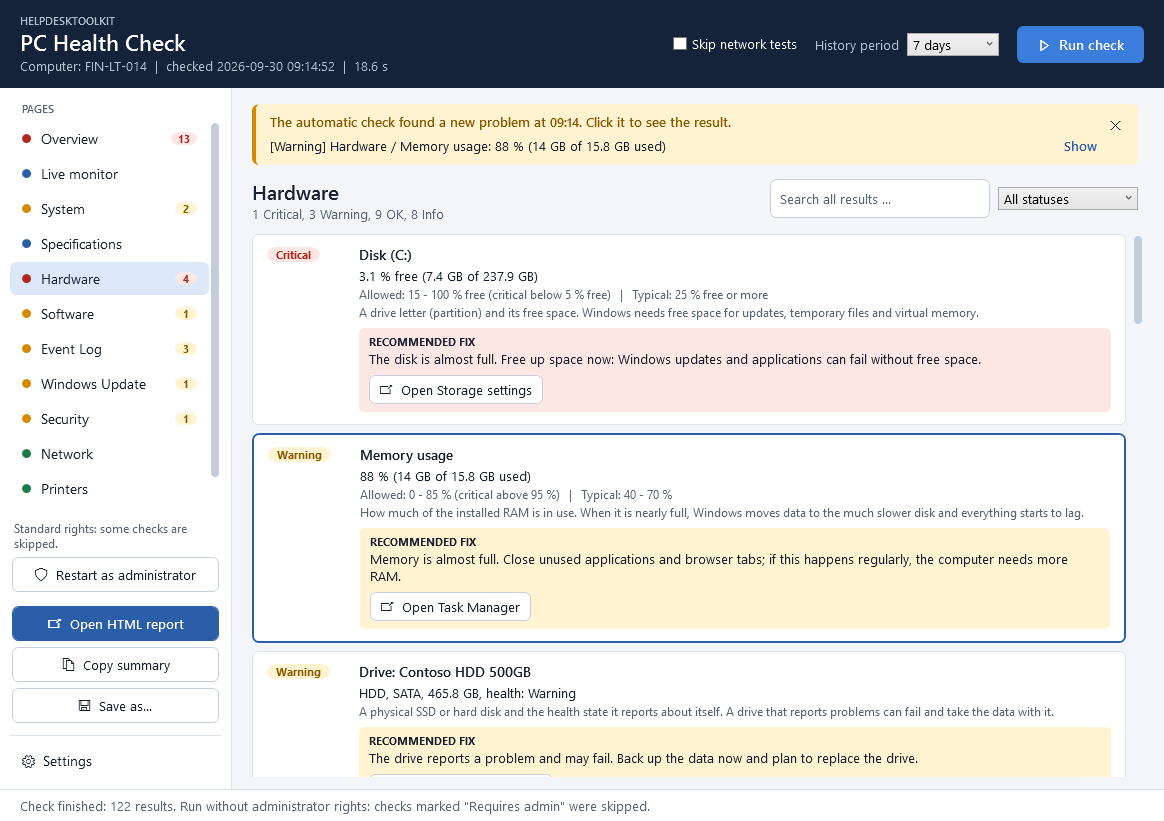
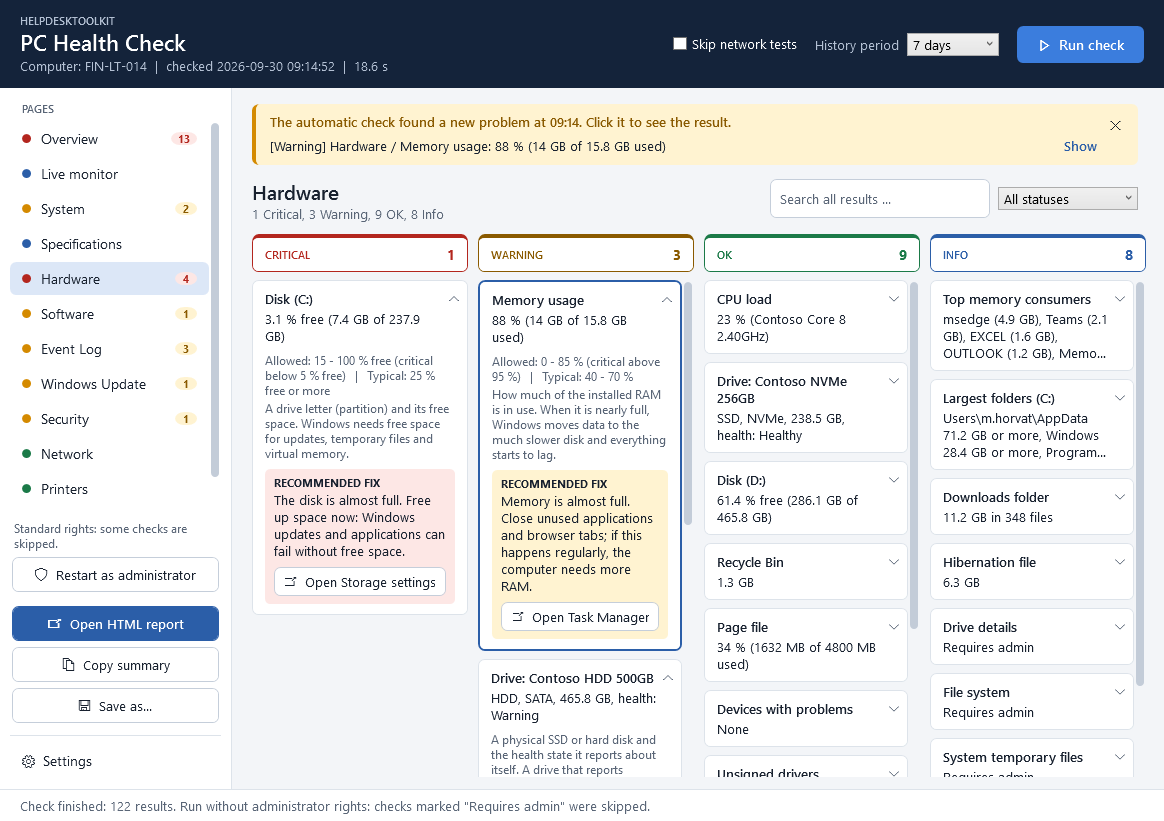
docs: describe the status columns and update the pictures

Changed region(s): [[0.2165, 0.2741, 0.9897, 0.944]]

diff --git a/README.hr.md b/README.hr.md
@@ -71,8 +71,13 @@ ponovno u bilo kojem trenutku.
   prethodnu provjeru istog računala. Aplikacija za to čuva zadnjih 30 izvještaja.
 - **Kategorije** lijevo (System, Hardware, Network, ...) prikazuju sve što je
   provjereno; točka i broj uz svaku pokazuju gdje su problemi.
-- **Najteže prvo:** na svakoj stranici, i u izvještaju, rezultati su poredani kao
-  Critical, Warning, OK, Info, pa problem nikad nije skriven negdje niže.
+- **Četiri stupca:** stranica kategorije prikazuje rezultate jedan do drugoga, po
+  jedan stupac za svaki status: Critical, Warning, OK, Info. Svaka vrsta stoji za sebe,
+  pa se problem ne može previdjeti među ostalim. Kartica prikazuje naziv provjere i
+  vrijednost; klik otvara objašnjenje, dopušteni raspon i rješenje. Problemi su
+  otvoreni od početka.
+- **Najteže prvo:** gdje god su rezultati poredani jedan ispod drugoga (Overview,
+  pretraga, izvještaj), idu redom Critical, Warning, OK, Info.
 - **Pretraga** traži po svim rezultatima odjednom, a filtar statusa sužava popis, na
   primjer samo na probleme.
 - **Copy summary** stavlja kratak tekstualni sažetak u međuspremnik, spreman za
@@ -90,7 +95,7 @@ Problem kojeg prije nije bilo najavljuje se u traci na vrhu prozora, a dok prozo
 u prvom planu i Windows obavijesti. Klik vodi ravno na rezultat, koji je uokviren da ga
 je lako naći. Obavijest nestaje kad je zatvoriš ili kad problema više nema.
 
-![Rezultat do kojeg je dovela obavijest](docs/screenshot-category.png)
+![Stranica kategorije do koje je dovela obavijest](docs/screenshot-category.png)
 
 Tipkovni prečaci:
 

diff --git a/README.md b/README.md
@@ -69,8 +69,13 @@ it again at any time.
   for this.
 - **Categories** on the left (System, Hardware, Network, ...) show everything that was
   checked; the dot and the number next to each one show where the problems are.
-- **Most severe first:** on every page, and in the report, the results are listed as
-  Critical, Warning, OK, Info, so a problem is never hidden further down.
+- **Four columns:** the page of a category shows its results side by side, one column
+  per status: Critical, Warning, OK, Info. Each kind stands by itself, so a problem
+  cannot be overlooked among the rest. A card shows the name of the check and its
+  value; a click opens the explanation, the allowed range and the fix. The problems
+  are open from the start.
+- **Most severe first:** wherever results are listed below each other (Overview,
+  search, the report), they come as Critical, Warning, OK, Info.
 - **Search** looks through all results at once, and the status filter narrows the
   list down, for example to the problems only.
 - **Copy summary** puts a short text version of the result on the clipboard, ready to
@@ -90,7 +95,7 @@ with a Windows notification while the window is not in front. A click leads stra
 the result, which is framed so it is easy to find. A notice disappears when it is
 dismissed or when the problem is gone.
 
-![A result reached through a notice](docs/screenshot-category.png)
+![The page of a category, reached through a notice](docs/screenshot-category.png)
 
 Keyboard shortcuts:
 

diff --git a/CHANGELOG.md b/CHANGELOG.md
@@ -37,8 +37,10 @@ The first public version. It will be released as 1.0.0.
 - Overview with the problems and their fixes, a health score from 0 to 100 and the
   changes since the previous check of the same computer.
 - A button next to a fix opens the page of Windows where the fix is made.
-- One page per category, search over all results and a filter by status. On every
-  page, and in the report, the most severe results come first.
+- One page per category with its results in four columns, one per status (Critical,
+  Warning, OK, Info); a click on a card opens its details. Search over all results
+  and a filter by status. In every list, and in the report, the most severe results
+  come first.
 - "Copy summary" for tickets, export as HTML, PDF, CSV or JSON.
 - After the first check the application repeats it in the background and replaces the
   results without interrupting. A problem that is new is announced at the top of the
